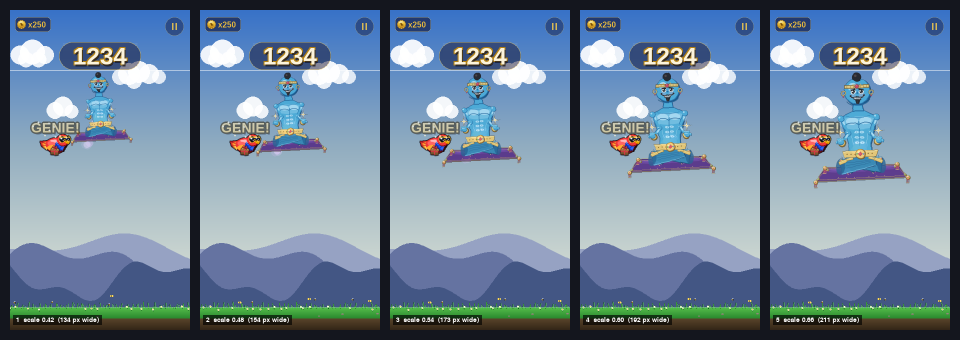
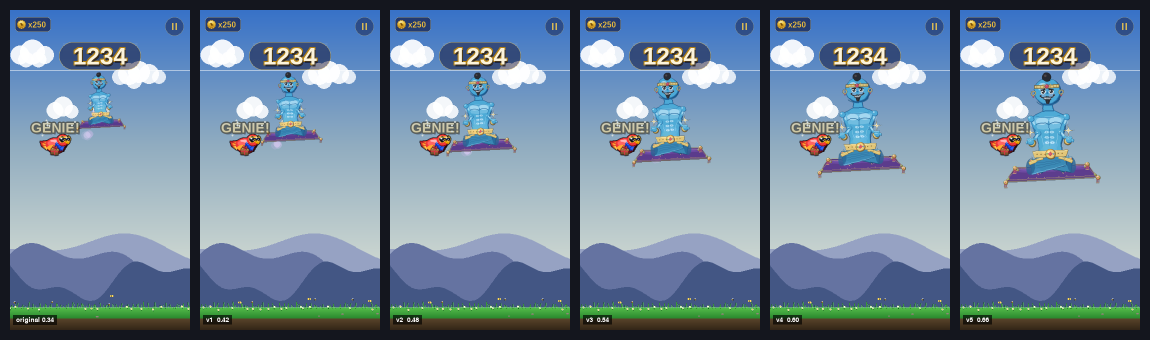
genie: collapse to a single size-comparison sheet incl. the original
One sizes_compare.png comparing the current 0.34 genie against the five
larger candidates (0.42–0.66), all aligned below the score pill. Drops
the separate per-size PNGs.

https://claude.ai/code/session_01Ms85cBEeRiAtxZBCNh5vN5

diff --git a/tools/render_genie_sizes.py b/tools/render_genie_sizes.py
@@ -41,16 +41,18 @@ NATIVE_H = 460
 TOP_Y    = 128
 GX       = 180          # screen-centre x, clear of HUD chrome
 
-# 5 increasingly large options. Current live size is 0.34 (≈109 px wide);
-# all five here are bigger so the genie reads as a hero character.
-#   0.42 → 134×193   0.48 → 154×221   0.54 → 173×248
-#   0.60 → 192×276   0.66 → 211×304
+# The original (current live) size is 0.34. The five candidates are all
+# bigger so the genie reads as a hero character. All are aligned by their
+# top edge just below the score pill so the sheet compares SIZE only.
+#   0.34 → 109 px (current)   0.42 → 134   0.48 → 154
+#   0.54 → 173   0.60 → 192   0.66 → 211
 SIZE_OPTIONS = [
-    ("1  scale 0.42  (134 px wide)", 0.42),
-    ("2  scale 0.48  (154 px wide)", 0.48),
-    ("3  scale 0.54  (173 px wide)", 0.54),
-    ("4  scale 0.60  (192 px wide)", 0.60),
-    ("5  scale 0.66  (211 px wide)", 0.66),
+    ("original 0.34", 0.34),
+    ("v1  0.42", 0.42),
+    ("v2  0.48", 0.48),
+    ("v3  0.54", 0.54),
+    ("v4  0.60", 0.60),
+    ("v5  0.66", 0.66),
 ]
 
 
@@ -143,11 +145,8 @@ def render_size(label, scale):
 
 def main():
     frames = [render_size(lbl, sc) for lbl, sc in SIZE_OPTIONS]
-    for i, fr in enumerate(frames, 1):
-        pygame.image.save(fr, os.path.join(OUT_DIR, f"size_{i}.png"))
-
-    # Comparison sheet: 5 across in one row.
-    cols = 5
+    # Single comparison sheet — original + 5 candidates, all in one row.
+    cols = len(frames)
     margin = 10
     sw, sh = W // 2, H // 2
     sheet_w = sw * cols + margin * (cols + 1)
@@ -160,7 +159,6 @@ def main():
     out = os.path.join(OUT_DIR, "sizes_compare.png")
     pygame.image.save(sheet, out)
     print(f"saved {out}  ({sheet_w}x{sheet_h})")
-    print("saved size_1.png .. size_5.png in", OUT_DIR)
 
 
 if __name__ == "__main__":
